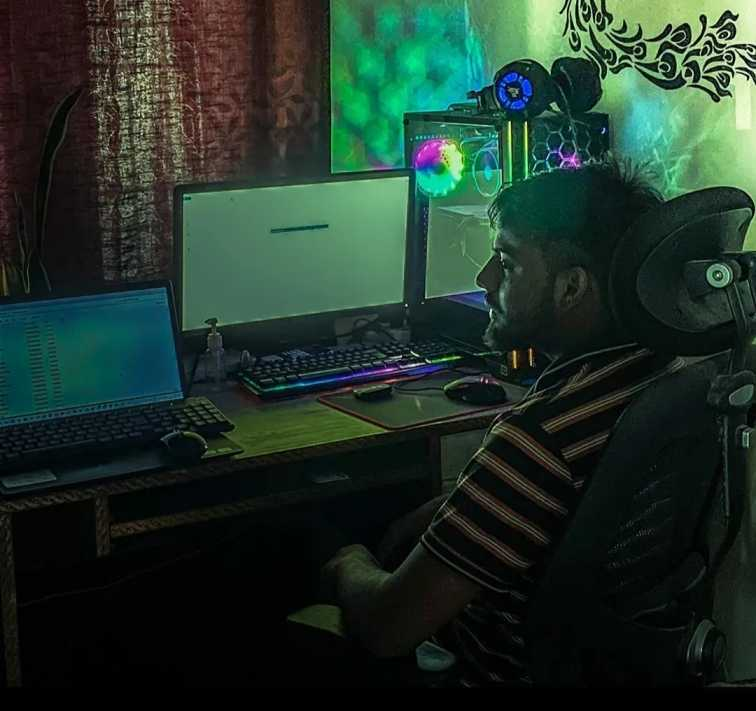
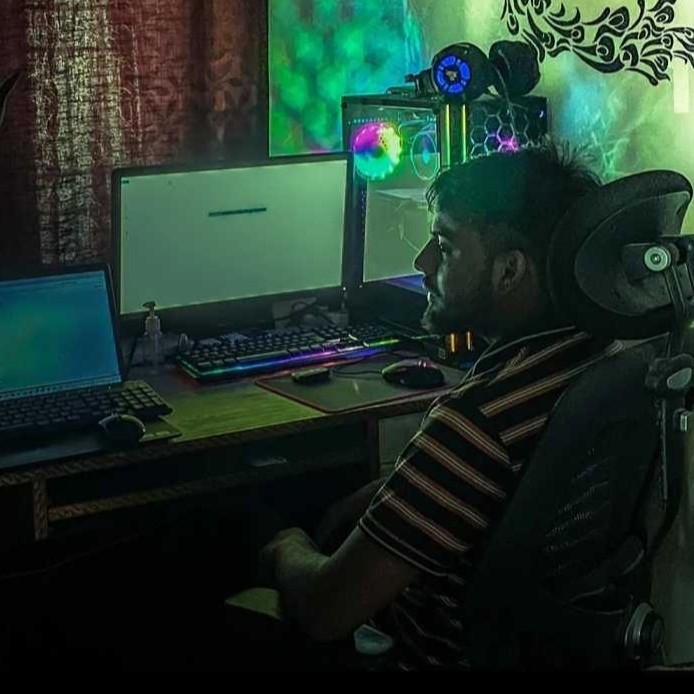
new

diff --git a/src/components/Animation/ChromaGrid.jsx b/src/components/Animation/ChromaGrid.jsx
@@ -1,0 +1,216 @@
+import { useRef, useEffect } from "react";
+import { gsap } from "gsap";
+
+const ChromaGrid = ({
+  items,
+  className = "",
+  radius = 300,
+  damping = 0.45,
+  fadeOut = 0.6,
+  ease = "power3.out",
+}) => {
+  const rootRef = useRef(null);
+  const fadeRef = useRef(null);
+  const setX = useRef(null);
+  const setY = useRef(null);
+  const pos = useRef({ x: 0, y: 0 });
+
+  const demo = [
+    {
+      image: "https://i.pravatar.cc/300?img=8",
+      title: "Alex Rivera",
+      subtitle: "Full Stack Developer",
+      handle: "@alexrivera",
+      borderColor: "#4F46E5",
+      gradient: "linear-gradient(145deg,#4F46E5,#000)",
+      url: "https://github.com/",
+    },
+    {
+      image: "https://i.pravatar.cc/300?img=11",
+      title: "Jordan Chen",
+      subtitle: "DevOps Engineer",
+      handle: "@jordanchen",
+      borderColor: "#10B981",
+      gradient: "linear-gradient(210deg,#10B981,#000)",
+      url: "https://linkedin.com/in/",
+    },
+    {
+      image: "https://i.pravatar.cc/300?img=3",
+      title: "Morgan Blake",
+      subtitle: "UI/UX Designer",
+      handle: "@morganblake",
+      borderColor: "#F59E0B",
+      gradient: "linear-gradient(165deg,#F59E0B,#000)",
+      url: "https://dribbble.com/",
+    },
+    {
+      image: "https://i.pravatar.cc/300?img=16",
+      title: "Casey Park",
+      subtitle: "Data Scientist",
+      handle: "@caseypark",
+      borderColor: "#EF4444",
+      gradient: "linear-gradient(195deg,#EF4444,#000)",
+      url: "https://kaggle.com/",
+    },
+    {
+      image: "https://i.pravatar.cc/300?img=25",
+      title: "Sam Kim",
+      subtitle: "Mobile Developer",
+      handle: "@thesamkim",
+      borderColor: "#8B5CF6",
+      gradient: "linear-gradient(225deg,#8B5CF6,#000)",
+      url: "https://github.com/",
+    },
+    {
+      image: "https://i.pravatar.cc/300?img=60",
+      title: "Tyler Rodriguez",
+      subtitle: "Cloud Architect",
+      handle: "@tylerrod",
+      borderColor: "#06B6D4",
+      gradient: "linear-gradient(135deg,#06B6D4,#000)",
+      url: "https://aws.amazon.com/",
+    },
+  ];
+
+  const data = items?.length ? items : demo;
+
+  useEffect(() => {
+    const el = rootRef.current;
+    if (!el) return;
+    setX.current = gsap.quickSetter(el, "--x", "px");
+    setY.current = gsap.quickSetter(el, "--y", "px");
+    const { width, height } = el.getBoundingClientRect();
+    pos.current = { x: width / 2, y: height / 2 };
+    setX.current(pos.current.x);
+    setY.current(pos.current.y);
+  }, []);
+
+  const moveTo = (x, y) => {
+    gsap.to(pos.current, {
+      x,
+      y,
+      duration: damping,
+      ease,
+      onUpdate: () => {
+        setX.current?.(pos.current.x);
+        setY.current?.(pos.current.y);
+      },
+      overwrite: true,
+    });
+  };
+
+  const handleMove = (e) => {
+    const r = rootRef.current.getBoundingClientRect();
+    moveTo(e.clientX - r.left, e.clientY - r.top);
+    gsap.to(fadeRef.current, { opacity: 0, duration: 0.25, overwrite: true });
+  };
+
+  const handleLeave = () => {
+    gsap.to(fadeRef.current, {
+      opacity: 1,
+      duration: fadeOut,
+      overwrite: true,
+    });
+  };
+
+  const handleCardClick = (url) => {
+    if (url) window.open(url, "_blank", "noopener,noreferrer");
+  };
+
+  const handleCardMove = (e) => {
+    const c = e.currentTarget;
+    const rect = c.getBoundingClientRect();
+    c.style.setProperty("--mouse-x", `${e.clientX - rect.left}px`);
+    c.style.setProperty("--mouse-y", `${e.clientY - rect.top}px`);
+  };
+
+  return (
+    <div
+      ref={rootRef}
+      onPointerMove={handleMove}
+      onPointerLeave={handleLeave}
+      className={`relative w-full h-full flex flex-wrap justify-center items-start gap-3 ${className}`}
+      style={
+        {
+          "--r": `${radius}px`,
+          "--x": "50%",
+          "--y": "50%",
+        }
+      }
+    >
+      {data.map((c, i) => (
+        <article
+          key={i}
+          onMouseMove={handleCardMove}
+          onClick={() => handleCardClick(c.url)}
+          className="group relative flex flex-col w-[300px] rounded-[20px] overflow-hidden border-2 border-transparent transition-colors duration-300 cursor-pointer"
+          style={
+            {
+              "--card-border": c.borderColor || "transparent",
+              background: c.gradient,
+              "--spotlight-color": "rgba(255,255,255,0.3)",
+            }
+          }
+        >
+          <div
+            className="absolute inset-0 pointer-events-none transition-opacity duration-500 z-20 opacity-0 group-hover:opacity-100"
+            style={{
+              background:
+                "radial-gradient(circle at var(--mouse-x) var(--mouse-y), var(--spotlight-color), transparent 70%)",
+            }}
+          />
+          <div className="relative  z-10 flex-1 p-[10px] box-border">
+            <img
+              src={c.image}
+              alt={c.title}
+              loading="lazy"
+              className="w-full h-full object-cover rounded-[10px]"
+            />
+          </div>
+          <footer className="relative z-10 p-3 text-white font-sans grid grid-cols-[1fr_auto] gap-x-3 gap-y-1">
+            <h3 className="m-0 text-[1.05rem] font-semibold">{c.title}</h3>
+            {c.handle && (
+              <span className="text-[0.95rem] opacity-80 text-right">
+                {c.handle}
+              </span>
+            )}
+            <p className="m-0 text-[0.85rem] opacity-85">{c.subtitle}</p>
+            {c.location && (
+              <span className="text-[0.85rem] opacity-85 text-right">
+                {c.location}
+              </span>
+            )}
+          </footer>
+        </article>
+      ))}
+      <div
+        className="absolute inset-0 pointer-events-none z-30"
+        style={{
+          backdropFilter: "grayscale(1) brightness(0.78)",
+          WebkitBackdropFilter: "grayscale(1) brightness(0.78)",
+          background: "rgba(0,0,0,0.001)",
+          maskImage:
+            "radial-gradient(circle var(--r) at var(--x) var(--y),transparent 0%,transparent 15%,rgba(0,0,0,0.10) 30%,rgba(0,0,0,0.22)45%,rgba(0,0,0,0.35)60%,rgba(0,0,0,0.50)75%,rgba(0,0,0,0.68)88%,white 100%)",
+          WebkitMaskImage:
+            "radial-gradient(circle var(--r) at var(--x) var(--y),transparent 0%,transparent 15%,rgba(0,0,0,0.10) 30%,rgba(0,0,0,0.22)45%,rgba(0,0,0,0.35)60%,rgba(0,0,0,0.50)75%,rgba(0,0,0,0.68)88%,white 100%)",
+        }}
+      />
+      <div
+        ref={fadeRef}
+        className="absolute inset-0 pointer-events-none transition-opacity duration-[250ms] z-40"
+        style={{
+          backdropFilter: "grayscale(1) brightness(0.78)",
+          WebkitBackdropFilter: "grayscale(1) brightness(0.78)",
+          background: "rgba(0,0,0,0.001)",
+          maskImage:
+            "radial-gradient(circle var(--r) at var(--x) var(--y),white 0%,white 15%,rgba(255,255,255,0.90)30%,rgba(255,255,255,0.78)45%,rgba(255,255,255,0.65)60%,rgba(255,255,255,0.50)75%,rgba(255,255,255,0.32)88%,transparent 100%)",
+          WebkitMaskImage:
+            "radial-gradient(circle var(--r) at var(--x) var(--y),white 0%,white 15%,rgba(255,255,255,0.90)30%,rgba(255,255,255,0.78)45%,rgba(255,255,255,0.65)60%,rgba(255,255,255,0.50)75%,rgba(255,255,255,0.32)88%,transparent 100%)",
+          opacity: 1,
+        }}
+      />
+    </div>
+  );
+};
+
+export default ChromaGrid;

diff --git a/src/components/Aboutpage.jsx b/src/components/Aboutpage.jsx
@@ -2,6 +2,7 @@ import React, { useEffect, useRef } from "react";
 import gsap from "gsap";
 import { ScrollTrigger } from "gsap/ScrollTrigger";
 import ScrollReveal from "./Animation/ScrollReveal";
+import ChromaGrid from "./Animation/ChromaGrid";
 
 gsap.registerPlugin(ScrollTrigger);
 
@@ -11,18 +12,33 @@ const Aboutpage = () => {
   const border = useRef(null);
   const leftscrollbox = useRef(null);
 
-  const images = [
+  const items = [
     {
-      id: 1,
-      src: "/images/2.jpg",
+      image: "/images/2.jpg",
+      title: "Sarah Johnson",
+      subtitle: "Frontend Developer",
+      handle: "@sarahjohnson",
+      borderColor: "#3B82F6",
+      gradient: "linear-gradient(145deg, #3B82F6, #000)",
+      url: "https://github.com/sarahjohnson",
     },
     {
-      id: 2,
-      src: "/images/3.jpg",
+      image: "/images/3.jpg",
+      title: "Mike Chen",
+      subtitle: "Backend Engineer",
+      handle: "@mikechen",
+      borderColor: "#10B981",
+      gradient: "linear-gradient(180deg, #10B981, #000)",
+      url: "https://linkedin.com/in/mikechen",
     },
     {
-      id: 3,
-      src: "/images/4.jpg",
+      image: "/images/5.jpeg",
+      title: "Mike Chen",
+      subtitle: "Backend Engineer",
+      handle: "@mikechen",
+      borderColor: "#10B981",
+      gradient: "linear-gradient(180deg, #10B981, #000)",
+      url: "https://linkedin.com/in/mikechen",
     },
   ];
 
@@ -76,7 +92,7 @@ const Aboutpage = () => {
     >
       <div
         ref={page}
-        className="h-[80vh] w-[80%] p-10  bg-[#F5F5DC] rounded-t-2xl"
+        className="h-[80vh] w-[80%] p-10  bg-[#F5F5DC] rounded-2xl "
       >
         <h1 className="text-8xl font-barlow text-[#2F4F4F] uppercase font-extrabold">
           A Boy with Different
@@ -91,9 +107,16 @@ const Aboutpage = () => {
         ></div>
         <div
           ref={leftscrollbox}
-          className="h-[60vh] px-10 items-center justify-start flex rounded-xl mt-10 w-[90vw] opacity-0 bg-mainlight"
+          className="h-[450px]   px-10 items-center gap-5  justify-center flex rounded-xl mt-10 w-[90vw] opacity-0 "
         >
-          <div className="imagediv h-[80%] rounded-lg w-[400px] bg-gray-50"></div>
+          <ChromaGrid
+            items={items}
+            radius={300}
+            damping={0.45}
+            fadeOut={0.6}
+            ease="power3.out"
+            className="h-full items-center w-[100vw] bg-mainlight rounded-2xl"
+          />
         </div>
       </div>
     </div>

diff --git a/src/components/Achievement.jsx b/src/components/Achievement.jsx
@@ -2,7 +2,7 @@ import React from 'react'
 
 const Achievement = () => {
   return (
-    <div className='h-screen w-full bg-[#FBA44C]'>Achievement</div>
+    <div className='h-screen w-full bg-main'>Achievement</div>
   )
 }
 
